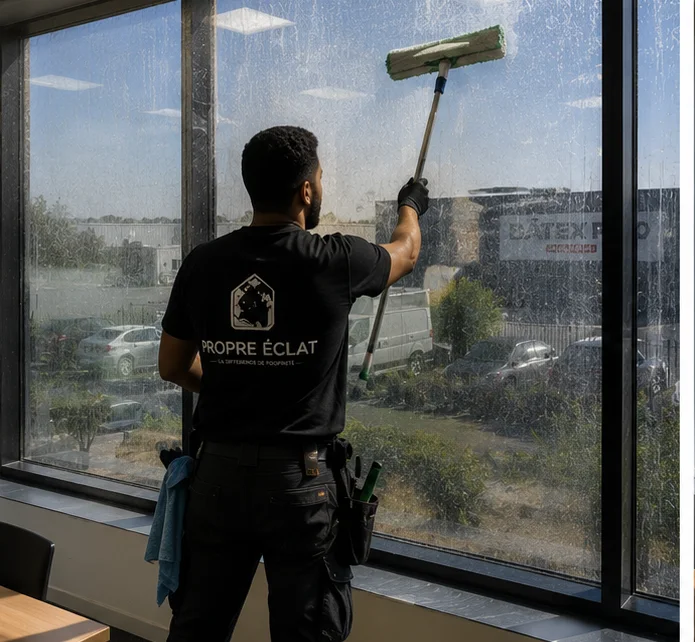
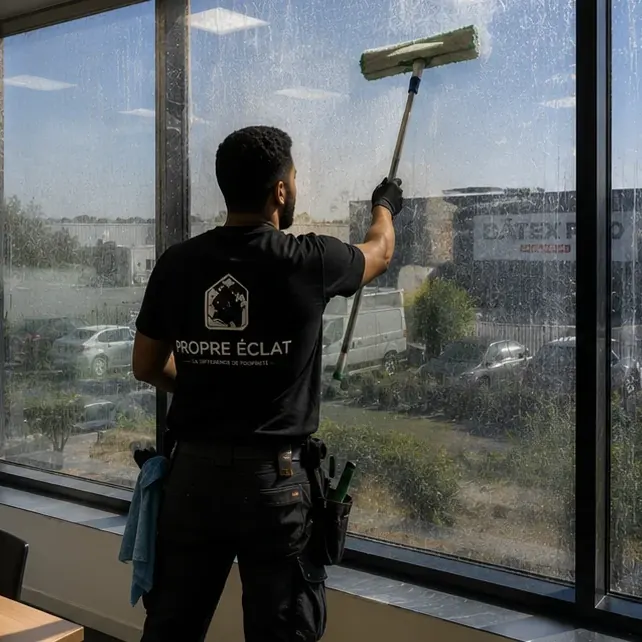
Images: -47% de poids et apercu flou instantane (plus de pop-in)
- Galerie recadree en carre (les cartes sont carrees : les bords etaient
  charges pour rien) et reencodee finement : 2156 KB -> 1153 KB
- Photos d'equipe recadrees en 16/9, largeur plafonnee a 1100 px
- Apercu flou (blurDataURL) genere pour les 27 images : la zone affiche une
  previsualisation immediate au lieu d'un vide pendant le chargement
- Les 3 premieres cartes du carrousel se chargent sans attendre le defilement

Claude-Session: https://claude.ai/code/session_011GP2RKiQo563B2cZFwY7Ws

diff --git a/src/lib/image-blur.ts b/src/lib/image-blur.ts
@@ -1,0 +1,30 @@
+// Genere automatiquement : apercus flous affiches pendant le chargement.
+export const blurMap: Record<string, string> = {
[27 lines of base64/hex data omitted]
+};

diff --git a/src/components/BeforeAfterSlider.tsx b/src/components/BeforeAfterSlider.tsx
@@ -2,6 +2,7 @@
 
 import Image from "next/image";
 import { useCallback, useRef, useState } from "react";
+import { blurMap } from "@/lib/image-blur";
 
 type Props = {
   title: string;
@@ -9,6 +10,7 @@ type Props = {
   after: string;
   showHint?: boolean;
   sizes?: string;
+  eager?: boolean;
 };
 
 export default function BeforeAfterSlider({
@@ -17,6 +19,7 @@ export default function BeforeAfterSlider({
   after,
   showHint = true,
   sizes = "(max-width: 640px) 100vw, (max-width: 1024px) 50vw, 33vw",
+  eager = false,
 }: Props) {
   const [percent, setPercent] = useState(50);
   const containerRef = useRef<HTMLDivElement>(null);
@@ -61,6 +64,9 @@ export default function BeforeAfterSlider({
           alt={`${title} après nettoyage`}
           fill
           sizes={sizes}
+          placeholder={blurMap[after] ? "blur" : "empty"}
+          blurDataURL={blurMap[after]}
+          loading={eager ? "eager" : "lazy"}
           draggable={false}
           className="pointer-events-none object-cover"
         />
@@ -73,6 +79,9 @@ export default function BeforeAfterSlider({
             alt={`${title} avant nettoyage`}
             fill
             sizes={sizes}
+            placeholder={blurMap[before] ? "blur" : "empty"}
+            blurDataURL={blurMap[before]}
+            loading={eager ? "eager" : "lazy"}
             draggable={false}
             className="object-cover"
           />

diff --git a/src/app/a-propos/page.tsx b/src/app/a-propos/page.tsx
@@ -6,6 +6,7 @@ import SparkleHeading from "@/components/SparkleHeading";
 import Particles from "@/components/Particles";
 import GoogleRating from "@/components/GoogleRating";
 import { siteConfig } from "@/lib/site-data";
+import { blurMap } from "@/lib/image-blur";
 
 export const metadata: Metadata = {
   title: "À propos — Entreprise de nettoyage à Caen",
@@ -175,6 +176,8 @@ export default function AboutPage() {
                 fill
                 className="object-cover object-center"
                 sizes="(max-width: 768px) 100vw, 768px"
+                placeholder="blur"
+                blurDataURL={blurMap["/images/equipe/agent-bureaux.webp"]}
               />
             </div>
             <figcaption className="bg-white px-5 py-3 text-center text-sm text-navy/60">

diff --git a/src/app/[servicePage]/page.tsx b/src/app/[servicePage]/page.tsx
@@ -6,6 +6,7 @@ import Reveal from "@/components/Reveal";
 import SparkleHeading from "@/components/SparkleHeading";
 import Particles from "@/components/Particles";
 import JsonLd from "@/components/JsonLd";
+import { blurMap } from "@/lib/image-blur";
 import {
   localSuffix,
   servicePages,
@@ -154,6 +155,8 @@ export default async function ServiceLandingPage({
                 fill
                 className="object-cover object-center"
                 sizes="(max-width: 768px) 100vw, 768px"
+                placeholder={blurMap[content.photo.src] ? "blur" : "empty"}
+                blurDataURL={blurMap[content.photo.src]}
               />
             </div>
           </Reveal>

diff --git a/src/components/BeforeAfterCard.tsx b/src/components/BeforeAfterCard.tsx
@@ -8,6 +8,8 @@ type Props = {
   showHint?: boolean;
   /** Indice de largeur pour servir la bonne taille d'image (perf) */
   sizes?: string;
+  /** Charge l'image sans attendre qu'elle entre dans le viewport */
+  eager?: boolean;
 };
 
 const DEFAULT_SIZES = "(max-width: 640px) 100vw, (max-width: 1024px) 50vw, 33vw";
@@ -18,6 +20,7 @@ export default function BeforeAfterCard({
   after,
   showHint = true,
   sizes = DEFAULT_SIZES,
+  eager = false,
 }: Props) {
   if (before && after) {
     return (
@@ -27,6 +30,7 @@ export default function BeforeAfterCard({
         after={after}
         showHint={showHint}
         sizes={sizes}
+        eager={eager}
       />
     );
   }

diff --git a/src/components/RealisationsCarousel.tsx b/src/components/RealisationsCarousel.tsx
@@ -124,6 +124,9 @@ export default function RealisationsCarousel({ items }: { items: Item[] }) {
               {...item}
               showHint={false}
               sizes="(max-width: 640px) 280px, 340px"
+              // Les premieres cartes de l'exemplaire du milieu sont visibles
+              // d'emblee : on les charge sans attendre le defilement.
+              eager={i >= items.length && i < items.length + 3}
             />
           </div>
         ))}
